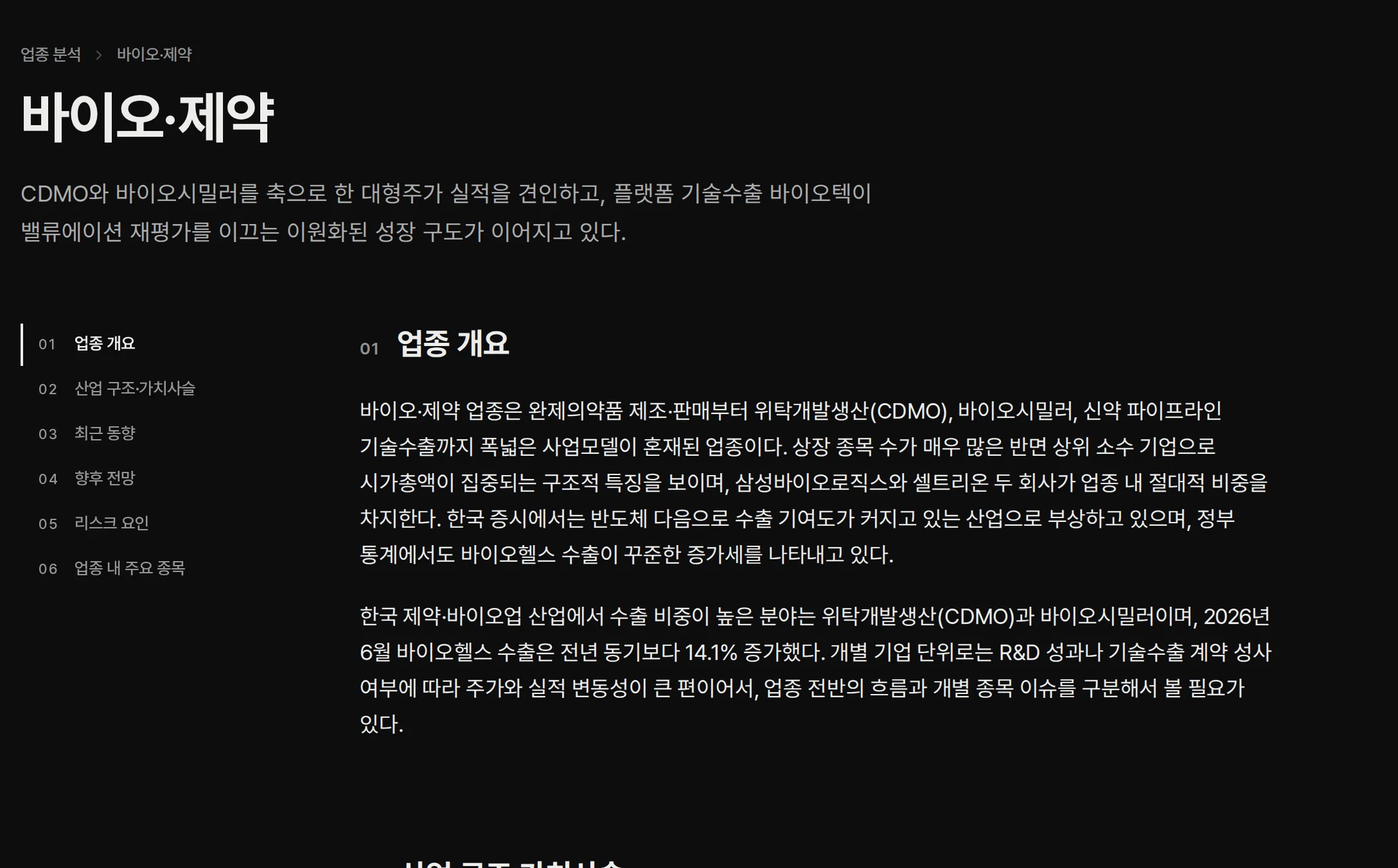
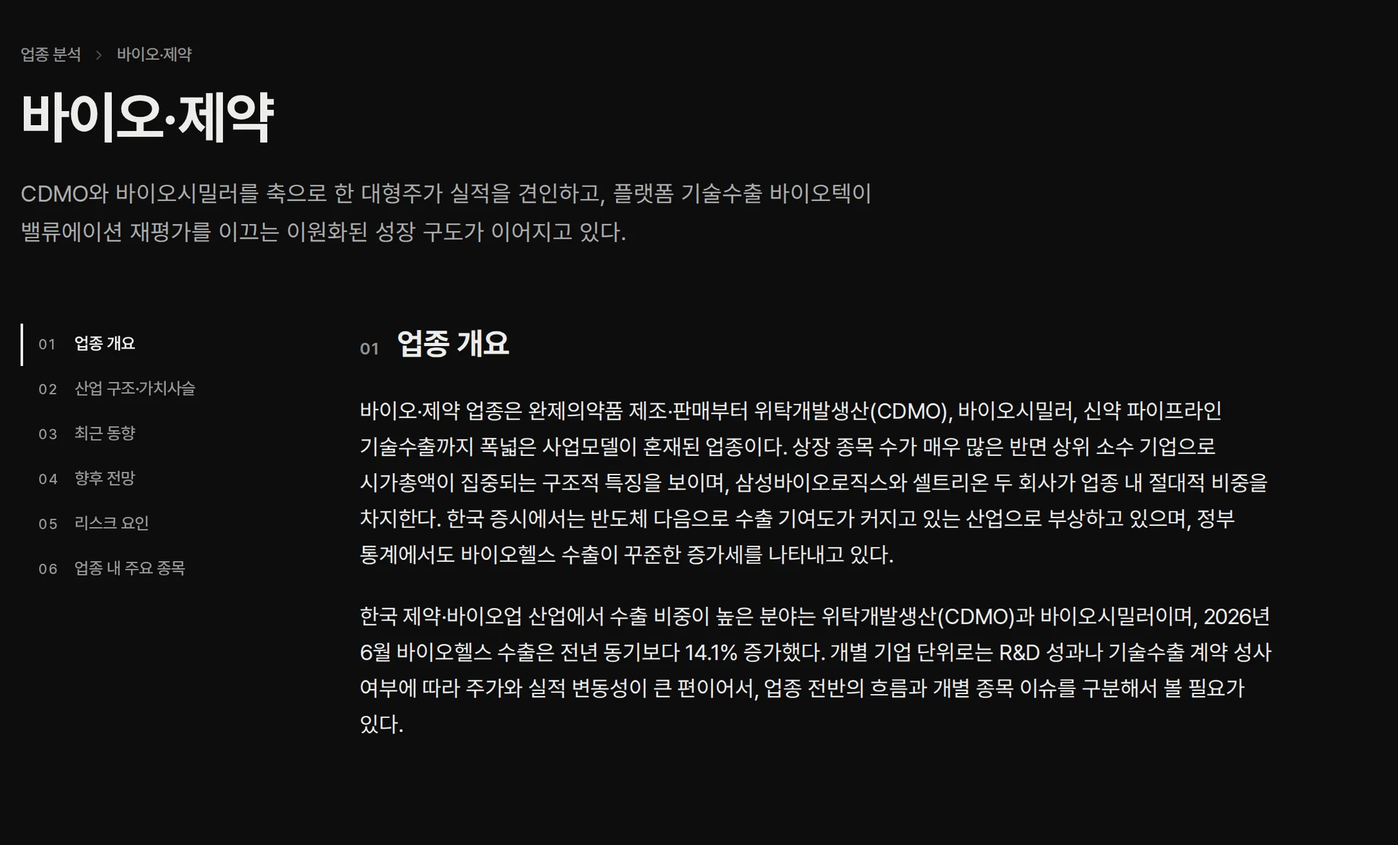
랜딩 업종 절 — 데스크톱 그림 끝에 다음 절 제목이 흐리게 비치지 않게
사장: "이미지 맨 아래에 데스크탑에서 보면 글씨가 살짝 보이는데 저거 거슬리네"
— 데스크톱 그림의 아래 끝에 다음 절(02 산업 구조·가치사슬) 제목 윗부분이
흐리게 비쳤다.

- landing_art.py: 자를 범위 아래를 선택자 기준으로 끊는 선택(cut)을 더해,
  업종 데스크톱 화면은 다음 절 제목 8px 위(01 업종 개요가 끝난 여백)에서 끊는다
  (그림 2112×1312 → 2112×1277). 휴대폰 화면과 리포트 그림은 그대로
- .shot.full: 데스크톱에서는 흐려지는 구간을 그림 아래 여백 64px 에만 건다 —
  글은 끝까지 또렷하다. 휴대폰은 전과 같이 글이 이어지다 풀린다
- CLAUDE.md, 카피 보고서 수정 기록 갱신

Claude-Session: https://claude.ai/code/session_01V9w7AkGYKinAos3GPMJT9m

diff --git a/preview/concepts/landing/index.html b/preview/concepts/landing/index.html
@@ -1,4 +1,4 @@
-<!doctype html><html lang="ko"><head><meta charset="utf-8"><meta name="viewport" content="width=device-width,initial-scale=1,viewport-fit=cover"><meta name="robots" content="noindex,nofollow"><meta name="theme-color" content="#141414"><title>KOSAI — 국내 상장 2,683개 종목의 기업 분석 리포트</title><meta name="description" content="국내 상장 2,683개 종목의 기업 분석 리포트와 모닝브리핑, 업종 분석을 제공합니다."><meta property="og:title" content="KOSAI — 증권사가 다루지 않는 종목까지"><meta property="og:description" content="국내 상장 2,683개 종목의 기업 분석 리포트"><link rel="stylesheet" href="../../../fonts/pretendard-subset.css"><link rel="stylesheet" href="landing.css"><script>(function(){var t='light';try{t=localStorage.getItem('kos-theme')||'light'}catch(e){}var r=document.documentElement;r.setAttribute('data-theme',t);r.classList.add('band-top');if('IntersectionObserver' in window&&!matchMedia('(prefers-reduced-motion: reduce)').matches)r.classList.add('rv-on');document.querySelector('meta[name="theme-color"]').setAttribute('content',t==='dark'?'#1c1c1e':'#141414')})();</script></head><body><div id="kosEdgeTop" aria-hidden="true"></div><div id="kosEdgeBot" aria-hidden="true"></div><nav class="nav on-band" id="nav"><div class="nav-in"><a class="brand" href="#"><img class="lt" src="../../../assets/kosai-wordmark-black.png" alt="KOSAI"><img class="dk" src="../../../assets/kosai-wordmark-white.png" alt="KOSAI"></a><div class="links"><a href="#">홈</a><a href="#report">리포트</a><a href="#sectors">업종 분석</a><a href="#">관심종목</a><a href="#brief">모닝브리핑</a></div><div class="right"><a class="login" href="#">로그인</a><button class="ib" id="themeBtn" aria-label="테마 전환"><svg viewBox="0 0 24 24" id="themeIcon"><path d="M21 12.8A9 9 0 1 1 11.2 3a7 7 0 0 0 9.8 9.8z"/></svg></button><button class="ib menu" id="menuBtn" aria-label="메뉴" aria-expanded="false" aria-controls="mmenu"><svg class="ham" viewBox="0 0 24 24"><path d="M4 7h16M4 12h16M4 17h16"/></svg><svg class="x" viewBox="0 0 24 24"><path d="M6 6l12 12M18 6L6 18"/></svg></button></div></div></nav><div class="mmenu" id="mmenu"><div class="mm-links"><a href="#">홈</a><a href="#report">리포트</a><a href="#sectors">업종 분석</a><a href="#">관심종목</a><a href="#brief">모닝브리핑</a></div><div class="sep"></div><div class="mm-auth"><a href="#">로그인</a><a href="#">회원가입</a></div><div class="mm-foot"><a href="#">회사 소개</a><a href="#">문의하기</a><a href="#">피드백</a><a href="#">이용약관</a><a href="#">개인정보 처리방침</a></div></div><main><header class="hero dz" id="hero"><div class="hero-in w"><h1>증권사가 다루지 않는<br>종목까지</h1><p class="lede"><span class="s">국내 상장 <span class="num">2,683</span>개 종목의 기업 분석 리포트를 제공합니다.</span></p><form class="search" role="search" onsubmit="return false"><svg viewBox="0 0 24 24"><circle cx="11" cy="11" r="7"/><path d="M21 21l-3.5-3.5"/></svg><input placeholder="종목명 또는 종목코드" aria-label="종목 검색" autocomplete="off"><button class="btn btn-ink" type="button">리포트 찾기</button></form><div class="alt"><a class="more" href="#">전체 리포트 보기 <svg class="i" viewBox="0 0 24 24"><path d="M5 12h14M13 6l6 6-6 6"/></svg></a></div></div><div class="orb-box" aria-hidden="true"><canvas class="orb" id="orb"></canvas></div><script type="application/json" id="orbData">{"n":2682,"r":[22,56,85,116,120,137,169,174,247,261,272,273,278,288,293,297,369,399,417,537,579,586,629,636,694,721,722,727,732,735,740,794,796,811,821,875,890,907,912,923,969,1052,1055,1072,1108,1174,1192,1220,1275,1312,1317,1346,1350,1411,1419,1442,1527,1578,1585,1628,1672,1718,1724,1736,1745,1828,1866,1874,1899,1948,1956,1974,1977,1996,2001,2007,2102,2148,2173,2187,2195,2295,2319,2328,2331,2369,2404,2409,2421,2441,2534,2563,2565,2570,2577,2601,2616,2622]}</script></header><section class="sec w solo stat" id="gap"><h2 class="stat-h rv"><span class="h2">증권사 리포트가 없는<br class="m"> 국내 상장사</span> <span class="cnt stat-n">58.8%</span></h2><p class="sub rv"><span class="s">지난해 증권사 기업분석 보고서가 발간되지 않은 기업은 1,573개사입니다.</span> <span class="s">KOSAI는 해당 기업에 대해서도 분석 리포트를 제공합니다.</span></p><p class="src rv">자료: 한국IR협의회 기업리서치센터, 2025년 상장사 2,674개사 집계</p></section><section class="sec w" id="report"><div class="split"><div class="tx"><p class="eyebrow rv">리포트</p><h2 class="h2 rv">한 편에 담은<br>기업 분석</h2><p class="sub rv"><span class="s">사업 구조와 실적, 업황, 전망, 리스크를 차례로 정리합니다.</span> <span class="s">강세 요인과 약세 요인을 함께 제시해 어느 한쪽으로 치우치지 않습니다.</span></p></div><figure class="shot" role="img" aria-label="KOSAI 기업 분석 리포트의 실제 화면. 목차와 리포트 개요, 사업 구조, 실적 추이가 차례로 보입니다."><div class="scr desk"><img class="lt" src="img/report-desk-light.webp" width="1840" height="1413" alt="" loading="lazy" decoding="async"><img class="dk" src="img/report-desk-dark.webp" width="1840" height="1413" alt="" loading="lazy" decoding="async"></div><div class="scr m1"><img class="lt" src="img/report-m1-light.webp" width="900" height="1477" alt="" loading="lazy" decoding="async"><img class="dk" src="img/report-m1-dark.webp" width="900" height="1477" alt="" loading="lazy" decoding="async"></div><div class="scr m2"><img class="lt" src="img/report-m2-light.webp" width="900" height="1477" alt="" loading="lazy" decoding="async"><img class="dk" src="img/report-m2-dark.webp" width="900" height="1477" alt="" loading="lazy" decoding="async"></div></figure></div></section><section class="sec w solo"><h2 class="h2 rv">매수도 매도도<br>권하지 않습니다</h2><p class="sub rv"><span class="s">KOSAI는 자체 투자의견과 목표주가를 제시하지 않습니다.</span> <span class="s">투자 판단에 필요한 사실과 근거를 정리하는 데 집중합니다.</span></p></section><section class="sec w trust"><h2 class="h2 rv">리포트의<br>세 가지 원칙</h2><ul class="proof"><li class="rv"><h3>공시 원본 수치</h3><p><span class="s">실적 표와 차트의 수치는 금융감독원 전자공시(DART) 원본에서 가져오며, AI가 생성하지 않습니다.</span></p></li><li class="rv"><h3>출처 공개</h3><p><span class="s">분석의 근거가 된 자료를 리포트마다 출처로 공개합니다.</span> <span class="s">한 편당 평균 17.5건입니다.</span></p></li><li class="rv"><h3>발행 전 검수</h3><p><span class="s">투자 권유로 읽힐 수 있는 표현은 발행 전에 자동으로 검수해 수정합니다.</span></p></li></ul><a class="more rv" href="#">작성 방식 자세히 보기 <svg class="i" viewBox="0 0 24 24"><path d="M5 12h14M13 6l6 6-6 6"/></svg></a></section><section class="sec w" id="fresh"><div class="split rev"><div class="tx"><h2 class="h2 rv">공시와 함께<br>갱신되는 리포트</h2><p class="sub rv"><span class="s">분기보고서와 반기보고서, 사업보고서가 공시되면 리포트를 새로 작성합니다.</span> <span class="s">주가와 밸류에이션 지표는 거래일마다 반영합니다.</span></p></div><figure class="cyc" id="cyc" role="img" aria-label="2026년 한 해를 원으로 나타낸 그림입니다. 안쪽 선은 12월 결산 법인의 정기보고서 제출 기간입니다."><div class="cyc-box" id="cycBox"></div><figcaption class="cyc-lg"><span><i class="g-ar"></i>정기보고서 제출 기간<em>12월 결산 법인 기준</em></span></figcaption><script type="application/json" id="cycData">{"years":{"2026":{"y":2026,"n":365,"win":[["사업보고서",0,89,3,31],["1분기보고서",90,134,5,15],["반기보고서",181,225,8,14],["3분기보고서",273,319,11,16]]},"2027":{"y":2027,"n":365,"win":[["사업보고서",0,89,3,31],["1분기보고서",90,136,5,17],["반기보고서",181,228,8,17],["3분기보고서",273,318,11,15]]},"2028":{"y":2028,"n":366,"win":[["사업보고서",0,89,3,30],["1분기보고서",91,135,5,15],["반기보고서",182,226,8,14],["3분기보고서",274,318,11,14]]},"2029":{"y":2029,"n":365,"win":[["사업보고서",0,91,4,2],["1분기보고서",90,134,5,15],["반기보고서",181,225,8,14],["3분기보고서",273,317,11,14]]},"2030":{"y":2030,"n":365,"win":[["사업보고서",0,90,4,1],["1분기보고서",90,134,5,15],["반기보고서",181,225,8,14],["3분기보고서",273,317,11,14]]}},"t":{"label":"{y}년 한 해를 원으로 나타낸 그림입니다. 안쪽 선은 12월 결산 법인의 정기보고서 제출 기간입니다.","next":"{w} 제출 기한은 {m}월 {d}일입니다.","mon":"{m}월","due":"{m}월 {d}일까지","today":"오늘"}}</script></figure></div></section><section class="sec w stack" id="sectors"><p class="eyebrow rv">업종 분석</p><h2 class="h2 rv">30개 업종의<br>분석 리포트</h2><p class="sub rv"><span class="s">업종마다 산업 구조와 최근 동향, 향후 전망, 리스크 요인을 분석합니다.</span> <span class="s">개별 기업을 산업 전체의 맥락에서 살펴볼 수 있습니다.</span></p><a class="more rv" href="#">전체 업종 보기 <svg class="i" viewBox="0 0 24 24"><path d="M5 12h14M13 6l6 6-6 6"/></svg></a><figure class="shot full" role="img" aria-label="KOSAI 업종 분석의 실제 화면. 업종 요약과 목차, 업종 개요, 리스크 요인이 차례로 보입니다."><div class="scr desk"><img class="lt" src="img/sector-desk-light.webp" width="2112" height="1312" alt="" loading="lazy" decoding="async"><img class="dk" src="img/sector-desk-dark.webp" width="2112" height="1312" alt="" loading="lazy" decoding="async"></div><div class="scr m1"><img class="lt" src="img/sector-m1-light.webp" width="900" height="1477" alt="" loading="lazy" decoding="async"><img class="dk" src="img/sector-m1-dark.webp" width="900" height="1477" alt="" loading="lazy" decoding="async"></div><div class="scr m2"><img class="lt" src="img/sector-m2-light.webp" width="900" height="1477" alt="" loading="lazy" decoding="async"><img class="dk" src="img/sector-m2-dark.webp" width="900" height="1477" alt="" loading="lazy" decoding="async"></div></figure></section><section class="band dz" id="brief"><div class="w split"><div class="tx"><p class="eyebrow rv">모닝브리핑</p><h2 class="h2 rv">개장 전에 읽는<br>시장 브리핑</h2><p class="sub rv"><span class="s">전일 국내 증시와 간밤의 해외 시장, 주요 일정을 정리합니다.</span> <span class="s">발행 시각은 거래일 오전 7시 30분 전후입니다.</span></p><a class="more rv" href="#">제31호 읽기 <svg class="i" viewBox="0 0 24 24"><path d="M5 12h14M13 6l6 6-6 6"/></svg></a></div><figure class="slot" aria-label="사진 자리 — 개장 전 아침, 책상 위 휴대폰"><span class="st"><svg viewBox="0 0 24 24"><rect x="3.5" y="5" width="17" height="14" rx="2"/><path d="M3.5 16l5-5 4 4 3-3 5 5"/></svg>사진<span>1:1</span></span><figcaption>개장 전 아침, 책상 위 휴대폰</figcaption></figure></div></section><section class="end w"><h2 class="h2 rv">궁금한 종목의<br>리포트를 확인하세요</h2><div class="rv"><form class="search" role="search" onsubmit="return false"><svg viewBox="0 0 24 24"><circle cx="11" cy="11" r="7"/><path d="M21 21l-3.5-3.5"/></svg><input placeholder="종목명 또는 종목코드" aria-label="종목 검색" autocomplete="off"><button class="btn btn-ink" type="button">리포트 찾기</button></form></div></section></main><footer class="foot"><div class="w"><a class="brand" href="#"><img class="lt" src="../../../assets/kosai-wordmark-black.png" alt="KOSAI"><img class="dk" src="../../../assets/kosai-wordmark-white.png" alt="KOSAI"></a><div class="fgrid"><div class="fcol"><h4>서비스</h4><a href="#">홈</a><a href="#">리포트</a><a href="#">업종 분석</a><a href="#">관심종목</a><a href="#">모닝브리핑</a></div><div class="fcol"><h4>회사</h4><a href="#">회사 소개</a><a href="#">문의하기</a><a href="#">피드백</a></div><div class="fcol"><h4>정책</h4><a href="#">이용약관</a><a class="pp" href="#">개인정보 처리방침</a></div></div><div class="biz"><span>상호 코사이</span><span>대표 임범준</span><span>사업자등록번호 380-25-02019</span><span>주소 서울시 양천구 목동동로12길 50, 동성빌딩 4층 459호</span><span>이메일 hello@kosai.kr</span></div><div class="copy">© 2026 KOSAI</div></div></footer><script>(function(){var r=document.documentElement;if(!r.classList.contains('rv-on'))return;function bz(x){var lo=0,hi=1,t=x,u;for(var i=0;i<24;i++){t=(lo+hi)/2;u=1-t;if(3*u*u*t*.2+3*u*t*t*.2+t*t*t<x)lo=t;else hi=t}u=1-t;return 3*u*u*t*.7+3*u*t*t+t*t*t}function cnt(el,d){var s=el.textContent,m=s.match(/^(\d+)(?:\.(\d+))?(\D*)$/),tn=el.firstChild;if(!m||!tn||(document.fonts&&document.fonts.status!=='loaded'))return;var hd=el.parentNode,ip=m[1],fp=m[2]||'',to=parseFloat(ip+(fp?'.'+fp:'')),dp=fp.length,ch=s.split(''),h='',i,b,x=[],fs=parseFloat(getComputedStyle(el).fontSize),rg=document.createRange();for(i=0;i<ch.length;i++){rg.setStart(tn,i);rg.setEnd(tn,i+1);b=rg.getBoundingClientRect();x.push([b.left,b.width])}hd.setAttribute('aria-label',hd.textContent);el.setAttribute('aria-hidden','true');el.style.whiteSpace='nowrap';for(i=0;i<ch.length;i++)h+='<span>'+ch[i]+'</span>';el.innerHTML=h;var sp=el.children;for(i=0;i<sp.length;i++)sp[i].style.cssText='display:inline-block;text-align:center;width:'+((i<sp.length-1?x[i+1][0]-x[i][0]:x[i][1])/fs).toFixed(4)+'em';function show(v){var a=v.toFixed(dp).split('.'),n=ip.length,k;for(i=0;i<n;i++){k=a[0].length-n+i;sp[i].textContent=k>=0?a[0].charAt(k):''}for(i=0;i<dp;i++)sp[n+1+i].textContent=(a[1]||'').charAt(i)}show(0);var t0=null;function f(ts){if(t0===null)t0=ts+d*1000;var p=Math.max(0,Math.min(1,(ts-t0)/1000));if(p<1){show(to*bz(p));requestAnimationFrame(f)}else for(i=0;i<sp.length;i++)sp[i].textContent=ch[i]}requestAnimationFrame(f)}try{var io=new IntersectionObserver(function(es){var j=0;for(var k=0;k<es.length;k++){var e=es[k],t=e.target;if(e.isIntersecting){var d=Math.min(j++,5)*.08;t.style.setProperty('--d',d+'s');t.classList.add('in');io.unobserve(t);var c=t.querySelector('.cnt');if(c)cnt(c,d)}else if(e.boundingClientRect.top<0){t.classList.add('in');io.unobserve(t)}}},{rootMargin:'0px 0px -10% 0px'});var rv=document.querySelectorAll('.rv');for(var k=0;k<rv.length;k++)io.observe(rv[k])}catch(x){r.classList.remove('rv-on')}})();</script><script>(function(){
+<!doctype html><html lang="ko"><head><meta charset="utf-8"><meta name="viewport" content="width=device-width,initial-scale=1,viewport-fit=cover"><meta name="robots" content="noindex,nofollow"><meta name="theme-color" content="#141414"><title>KOSAI — 국내 상장 2,682개 종목의 기업 분석 리포트</title><meta name="description" content="국내 상장 2,682개 종목의 기업 분석 리포트와 모닝브리핑, 업종 분석을 제공합니다."><meta property="og:title" content="KOSAI — 증권사가 다루지 않는 종목까지"><meta property="og:description" content="국내 상장 2,682개 종목의 기업 분석 리포트"><link rel="stylesheet" href="../../../fonts/pretendard-subset.css"><link rel="stylesheet" href="landing.css"><script>(function(){var t='light';try{t=localStorage.getItem('kos-theme')||'light'}catch(e){}var r=document.documentElement;r.setAttribute('data-theme',t);r.classList.add('band-top');if('IntersectionObserver' in window&&!matchMedia('(prefers-reduced-motion: reduce)').matches)r.classList.add('rv-on');document.querySelector('meta[name="theme-color"]').setAttribute('content',t==='dark'?'#1c1c1e':'#141414')})();</script></head><body><div id="kosEdgeTop" aria-hidden="true"></div><div id="kosEdgeBot" aria-hidden="true"></div><nav class="nav on-band" id="nav"><div class="nav-in"><a class="brand" href="#"><img class="lt" src="../../../assets/kosai-wordmark-black.png" alt="KOSAI"><img class="dk" src="../../../assets/kosai-wordmark-white.png" alt="KOSAI"></a><div class="links"><a href="#">홈</a><a href="#report">리포트</a><a href="#sectors">업종 분석</a><a href="#">관심종목</a><a href="#brief">모닝브리핑</a></div><div class="right"><a class="login" href="#">로그인</a><button class="ib" id="themeBtn" aria-label="테마 전환"><svg viewBox="0 0 24 24" id="themeIcon"><path d="M21 12.8A9 9 0 1 1 11.2 3a7 7 0 0 0 9.8 9.8z"/></svg></button><button class="ib menu" id="menuBtn" aria-label="메뉴" aria-expanded="false" aria-controls="mmenu"><svg class="ham" viewBox="0 0 24 24"><path d="M4 7h16M4 12h16M4 17h16"/></svg><svg class="x" viewBox="0 0 24 24"><path d="M6 6l12 12M18 6L6 18"/></svg></button></div></div></nav><div class="mmenu" id="mmenu"><div class="mm-links"><a href="#">홈</a><a href="#report">리포트</a><a href="#sectors">업종 분석</a><a href="#">관심종목</a><a href="#brief">모닝브리핑</a></div><div class="sep"></div><div class="mm-auth"><a href="#">로그인</a><a href="#">회원가입</a></div><div class="mm-foot"><a href="#">회사 소개</a><a href="#">문의하기</a><a href="#">피드백</a><a href="#">이용약관</a><a href="#">개인정보 처리방침</a></div></div><main><header class="hero dz" id="hero"><div class="hero-in w"><h1>증권사가 다루지 않는<br>종목까지</h1><p class="lede"><span class="s">국내 상장 <span class="num">2,682</span>개 종목의 기업 분석 리포트를 제공합니다.</span></p><form class="search" role="search" onsubmit="return false"><svg viewBox="0 0 24 24"><circle cx="11" cy="11" r="7"/><path d="M21 21l-3.5-3.5"/></svg><input placeholder="종목명 또는 종목코드" aria-label="종목 검색" autocomplete="off"><button class="btn btn-ink" type="button">리포트 찾기</button></form><div class="alt"><a class="more" href="#">전체 리포트 보기 <svg class="i" viewBox="0 0 24 24"><path d="M5 12h14M13 6l6 6-6 6"/></svg></a></div></div><div class="orb-box" aria-hidden="true"><canvas class="orb" id="orb"></canvas></div><script type="application/json" id="orbData">{"n":2682,"r":[22,56,85,116,120,137,169,174,247,261,272,273,278,288,293,297,369,399,417,537,579,586,629,636,694,721,722,727,732,735,740,794,796,811,821,875,890,907,912,923,969,1052,1055,1072,1108,1174,1192,1220,1275,1312,1317,1346,1350,1411,1419,1442,1527,1578,1585,1628,1672,1718,1724,1736,1745,1828,1866,1874,1899,1948,1956,1974,1977,1996,2001,2007,2102,2148,2173,2187,2195,2295,2319,2328,2331,2369,2404,2409,2421,2441,2534,2563,2565,2570,2577,2601,2616,2622]}</script></header><section class="sec w solo stat" id="gap"><h2 class="stat-h rv"><span class="h2">증권사 리포트가 없는<br class="m"> 국내 상장사</span> <span class="cnt stat-n">58.8%</span></h2><p class="sub rv"><span class="s">지난해 증권사 기업분석 보고서가 발간되지 않은 기업은 1,573개사입니다.</span> <span class="s">KOSAI는 해당 기업에 대해서도 분석 리포트를 제공합니다.</span></p><p class="src rv">자료: 한국IR협의회 기업리서치센터, 2025년 상장사 2,674개사 집계</p></section><section class="sec w" id="report"><div class="split"><div class="tx"><p class="eyebrow rv">리포트</p><h2 class="h2 rv">한 편에 담은<br>기업 분석</h2><p class="sub rv"><span class="s">사업 구조와 실적, 업황, 전망, 리스크를 차례로 정리합니다.</span> <span class="s">강세 요인과 약세 요인을 함께 제시해 어느 한쪽으로 치우치지 않습니다.</span></p></div><figure class="shot" role="img" aria-label="KOSAI 기업 분석 리포트의 실제 화면. 목차와 리포트 개요, 사업 구조, 실적 추이가 차례로 보입니다."><div class="scr desk"><img class="lt" src="img/report-desk-light.webp" width="1840" height="1413" alt="" loading="lazy" decoding="async"><img class="dk" src="img/report-desk-dark.webp" width="1840" height="1413" alt="" loading="lazy" decoding="async"></div><div class="scr m1"><img class="lt" src="img/report-m1-light.webp" width="900" height="1477" alt="" loading="lazy" decoding="async"><img class="dk" src="img/report-m1-dark.webp" width="900" height="1477" alt="" loading="lazy" decoding="async"></div><div class="scr m2"><img class="lt" src="img/report-m2-light.webp" width="900" height="1477" alt="" loading="lazy" decoding="async"><img class="dk" src="img/report-m2-dark.webp" width="900" height="1477" alt="" loading="lazy" decoding="async"></div></figure></div></section><section class="sec w solo"><h2 class="h2 rv">매수도 매도도<br>권하지 않습니다</h2><p class="sub rv"><span class="s">KOSAI는 자체 투자의견과 목표주가를 제시하지 않습니다.</span> <span class="s">투자 판단에 필요한 사실과 근거를 정리하는 데 집중합니다.</span></p></section><section class="sec w trust"><h2 class="h2 rv">리포트의<br>세 가지 원칙</h2><ul class="proof"><li class="rv"><h3>공시 원본 수치</h3><p><span class="s">실적 표와 차트의 수치는 금융감독원 전자공시(DART) 원본에서 가져오며, AI가 생성하지 않습니다.</span></p></li><li class="rv"><h3>출처 공개</h3><p><span class="s">분석의 근거가 된 자료를 리포트마다 출처로 공개합니다.</span> <span class="s">한 편당 평균 17.5건입니다.</span></p></li><li class="rv"><h3>발행 전 검수</h3><p><span class="s">투자 권유로 읽힐 수 있는 표현은 발행 전에 자동으로 검수해 수정합니다.</span></p></li></ul><a class="more rv" href="#">작성 방식 자세히 보기 <svg class="i" viewBox="0 0 24 24"><path d="M5 12h14M13 6l6 6-6 6"/></svg></a></section><section class="sec w" id="fresh"><div class="split rev"><div class="tx"><h2 class="h2 rv">공시와 함께<br>갱신되는 리포트</h2><p class="sub rv"><span class="s">분기보고서와 반기보고서, 사업보고서가 공시되면 리포트를 새로 작성합니다.</span> <span class="s">주가와 밸류에이션 지표는 거래일마다 반영합니다.</span></p></div><figure class="cyc" id="cyc" role="img" aria-label="2026년 한 해를 원으로 나타낸 그림입니다. 안쪽 선은 12월 결산 법인의 정기보고서 제출 기간입니다."><div class="cyc-box" id="cycBox"></div><figcaption class="cyc-lg"><span><i class="g-ar"></i>정기보고서 제출 기간<em>12월 결산 법인 기준</em></span></figcaption><script type="application/json" id="cycData">{"years":{"2026":{"y":2026,"n":365,"win":[["사업보고서",0,89,3,31],["1분기보고서",90,134,5,15],["반기보고서",181,225,8,14],["3분기보고서",273,319,11,16]]},"2027":{"y":2027,"n":365,"win":[["사업보고서",0,89,3,31],["1분기보고서",90,136,5,17],["반기보고서",181,228,8,17],["3분기보고서",273,318,11,15]]},"2028":{"y":2028,"n":366,"win":[["사업보고서",0,89,3,30],["1분기보고서",91,135,5,15],["반기보고서",182,226,8,14],["3분기보고서",274,318,11,14]]},"2029":{"y":2029,"n":365,"win":[["사업보고서",0,91,4,2],["1분기보고서",90,134,5,15],["반기보고서",181,225,8,14],["3분기보고서",273,317,11,14]]},"2030":{"y":2030,"n":365,"win":[["사업보고서",0,90,4,1],["1분기보고서",90,134,5,15],["반기보고서",181,225,8,14],["3분기보고서",273,317,11,14]]}},"t":{"label":"{y}년 한 해를 원으로 나타낸 그림입니다. 안쪽 선은 12월 결산 법인의 정기보고서 제출 기간입니다.","next":"{w} 제출 기한은 {m}월 {d}일입니다.","mon":"{m}월","due":"{m}월 {d}일까지","today":"오늘"}}</script></figure></div></section><section class="sec w stack" id="sectors"><p class="eyebrow rv">업종 분석</p><h2 class="h2 rv">30개 업종의<br>분석 리포트</h2><p class="sub rv"><span class="s">업종마다 산업 구조와 최근 동향, 향후 전망, 리스크 요인을 분석합니다.</span> <span class="s">개별 기업을 산업 전체의 맥락에서 살펴볼 수 있습니다.</span></p><a class="more rv" href="#">전체 업종 보기 <svg class="i" viewBox="0 0 24 24"><path d="M5 12h14M13 6l6 6-6 6"/></svg></a><figure class="shot full" role="img" aria-label="KOSAI 업종 분석의 실제 화면. 업종 요약과 목차, 업종 개요, 리스크 요인이 차례로 보입니다."><div class="scr desk"><img class="lt" src="img/sector-desk-light.webp" width="2112" height="1277" alt="" loading="lazy" decoding="async"><img class="dk" src="img/sector-desk-dark.webp" width="2112" height="1277" alt="" loading="lazy" decoding="async"></div><div class="scr m1"><img class="lt" src="img/sector-m1-light.webp" width="900" height="1477" alt="" loading="lazy" decoding="async"><img class="dk" src="img/sector-m1-dark.webp" width="900" height="1477" alt="" loading="lazy" decoding="async"></div><div class="scr m2"><img class="lt" src="img/sector-m2-light.webp" width="900" height="1477" alt="" loading="lazy" decoding="async"><img class="dk" src="img/sector-m2-dark.webp" width="900" height="1477" alt="" loading="lazy" decoding="async"></div></figure></section><section class="band dz" id="brief"><div class="w split"><div class="tx"><p class="eyebrow rv">모닝브리핑</p><h2 class="h2 rv">개장 전에 읽는<br>시장 브리핑</h2><p class="sub rv"><span class="s">전일 국내 증시와 간밤의 해외 시장, 주요 일정을 정리합니다.</span> <span class="s">발행 시각은 거래일 오전 7시 30분 전후입니다.</span></p><a class="more rv" href="#">제31호 읽기 <svg class="i" viewBox="0 0 24 24"><path d="M5 12h14M13 6l6 6-6 6"/></svg></a></div><figure class="slot" aria-label="사진 자리 — 개장 전 아침, 책상 위 휴대폰"><span class="st"><svg viewBox="0 0 24 24"><rect x="3.5" y="5" width="17" height="14" rx="2"/><path d="M3.5 16l5-5 4 4 3-3 5 5"/></svg>사진<span>1:1</span></span><figcaption>개장 전 아침, 책상 위 휴대폰</figcaption></figure></div></section><section class="end w"><h2 class="h2 rv">궁금한 종목의<br>리포트를 확인하세요</h2><div class="rv"><form class="search" role="search" onsubmit="return false"><svg viewBox="0 0 24 24"><circle cx="11" cy="11" r="7"/><path d="M21 21l-3.5-3.5"/></svg><input placeholder="종목명 또는 종목코드" aria-label="종목 검색" autocomplete="off"><button class="btn btn-ink" type="button">리포트 찾기</button></form></div></section></main><footer class="foot"><div class="w"><a class="brand" href="#"><img class="lt" src="../../../assets/kosai-wordmark-black.png" alt="KOSAI"><img class="dk" src="../../../assets/kosai-wordmark-white.png" alt="KOSAI"></a><div class="fgrid"><div class="fcol"><h4>서비스</h4><a href="#">홈</a><a href="#">리포트</a><a href="#">업종 분석</a><a href="#">관심종목</a><a href="#">모닝브리핑</a></div><div class="fcol"><h4>회사</h4><a href="#">회사 소개</a><a href="#">문의하기</a><a href="#">피드백</a></div><div class="fcol"><h4>정책</h4><a href="#">이용약관</a><a class="pp" href="#">개인정보 처리방침</a></div></div><div class="biz"><span>상호 코사이</span><span>대표 임범준</span><span>사업자등록번호 380-25-02019</span><span>주소 서울시 양천구 목동동로12길 50, 동성빌딩 4층 459호</span><span>이메일 hello@kosai.kr</span></div><div class="copy">© 2026 KOSAI</div></div></footer><script>(function(){var r=document.documentElement;if(!r.classList.contains('rv-on'))return;function bz(x){var lo=0,hi=1,t=x,u;for(var i=0;i<24;i++){t=(lo+hi)/2;u=1-t;if(3*u*u*t*.2+3*u*t*t*.2+t*t*t<x)lo=t;else hi=t}u=1-t;return 3*u*u*t*.7+3*u*t*t+t*t*t}function cnt(el,d){var s=el.textContent,m=s.match(/^(\d+)(?:\.(\d+))?(\D*)$/),tn=el.firstChild;if(!m||!tn||(document.fonts&&document.fonts.status!=='loaded'))return;var hd=el.parentNode,ip=m[1],fp=m[2]||'',to=parseFloat(ip+(fp?'.'+fp:'')),dp=fp.length,ch=s.split(''),h='',i,b,x=[],fs=parseFloat(getComputedStyle(el).fontSize),rg=document.createRange();for(i=0;i<ch.length;i++){rg.setStart(tn,i);rg.setEnd(tn,i+1);b=rg.getBoundingClientRect();x.push([b.left,b.width])}hd.setAttribute('aria-label',hd.textContent);el.setAttribute('aria-hidden','true');el.style.whiteSpace='nowrap';for(i=0;i<ch.length;i++)h+='<span>'+ch[i]+'</span>';el.innerHTML=h;var sp=el.children;for(i=0;i<sp.length;i++)sp[i].style.cssText='display:inline-block;text-align:center;width:'+((i<sp.length-1?x[i+1][0]-x[i][0]:x[i][1])/fs).toFixed(4)+'em';function show(v){var a=v.toFixed(dp).split('.'),n=ip.length,k;for(i=0;i<n;i++){k=a[0].length-n+i;sp[i].textContent=k>=0?a[0].charAt(k):''}for(i=0;i<dp;i++)sp[n+1+i].textContent=(a[1]||'').charAt(i)}show(0);var t0=null;function f(ts){if(t0===null)t0=ts+d*1000;var p=Math.max(0,Math.min(1,(ts-t0)/1000));if(p<1){show(to*bz(p));requestAnimationFrame(f)}else for(i=0;i<sp.length;i++)sp[i].textContent=ch[i]}requestAnimationFrame(f)}try{var io=new IntersectionObserver(function(es){var j=0;for(var k=0;k<es.length;k++){var e=es[k],t=e.target;if(e.isIntersecting){var d=Math.min(j++,5)*.08;t.style.setProperty('--d',d+'s');t.classList.add('in');io.unobserve(t);var c=t.querySelector('.cnt');if(c)cnt(c,d)}else if(e.boundingClientRect.top<0){t.classList.add('in');io.unobserve(t)}}},{rootMargin:'0px 0px -10% 0px'});var rv=document.querySelectorAll('.rv');for(var k=0;k<rv.length;k++)io.observe(rv[k])}catch(x){r.classList.remove('rv-on')}})();</script><script>(function(){
 var fg=document.getElementById('cyc'),box=document.getElementById('cycBox'),el=document.getElementById('cycData');if(!fg||!box||!el)return;
 var A=JSON.parse(el.textContent),Y=A.years,T=A.t,ks=Object.keys(Y).sort(),D=null,ti=-1,day='';
 function fill(s,o){return s.replace(/\{(\w+)\}/g,function(m,k){return k in o?o[k]:m})}

diff --git a/scripts/concepts/landing_art.py b/scripts/concepts/landing_art.py
@@ -40,17 +40,18 @@ SECTOR = "바이오·제약"
 OUT = os.path.join(ROOT, "preview", "concepts", "landing", "img")
 NAV = 60   # 머리 줄 높이 — 찍은 뒤 덜어 낸다
 # 이름: (화면 폭, 높이, 배율, 머리 아래 올 절(None 이면 맨 위 그대로), 그 절의 화면 위 거리, 자를 범위(화면 좌표 x0 · y0 · x1 · y1),
-#        저장 폭, 켜져 있어야 할 목차)
+#        저장 폭, 켜져 있어야 할 목차, 아래를 끊을 자리(선택자와 그 위쪽 여유 — 자를 범위의 y1 보다 위면 거기서 끊는다, None 이면 y1 그대로))
 SHOTS = {
-    "desk": (1280, 1000, 2, "#s01", 92, (56, NAV, 1280, 1000), 1840, "01"),
-    "m1": (390, 844, 3, "#s01", 112, (0, NAV, 390, 700), 900, "01"),
-    "m2": (390, 844, 3, "#s03", 112, (0, NAV, 390, 700), 900, "03"),
+    "desk": (1280, 1000, 2, "#s01", 92, (56, NAV, 1280, 1000), 1840, "01", None),
+    "m1": (390, 844, 3, "#s01", 112, (0, NAV, 390, 700), 900, "01", None),
+    "m2": (390, 844, 3, "#s03", 112, (0, NAV, 390, 700), 900, "03", None),
 }
-# 업종 화면 — 데스크톱은 본문 폭(1056px)에 16px 씩 여유를 둔 범위를 2112px(2배)로 담는다
+# 업종 화면 — 데스크톱은 본문 폭(1056px)에 16px 씩 여유를 둔 범위를 2112px(2배)로 담는다. 아래는 다음 절(02) 제목 8px 위, 01 업종 개요가
+# 끝난 여백에서 끊는다 — 제목 윗부분이 그림 끝에 흐리게 비쳤다(사장 2026-10-01 "글씨가 살짝 보이는데 저거 거슬리네")
 SECTOR_SHOTS = {
-    "desk": (1280, 900, 2, None, 0, (96, 84, 1184, 760), 2112, "01"),
-    "m1": (390, 844, 3, None, 0, (0, NAV, 390, 700), 900, "01"),
-    "m2": (390, 844, 3, "#s05", 112, (0, NAV, 390, 700), 900, "05"),
+    "desk": (1280, 900, 2, None, 0, (96, 84, 1184, 760), 2112, "01", ("#s02", 8)),
+    "m1": (390, 844, 3, None, 0, (0, NAV, 390, 700), 900, "01", None),
+    "m2": (390, 844, 3, "#s05", 112, (0, NAV, 390, 700), 900, "05", None),
 }
 HIDE = ".stats,.stats-note{display:none!important}"   # 업종 화면의 매일 바뀌는 수치 줄
 
@@ -63,7 +64,7 @@ class Quiet(SimpleHTTPRequestHandler):
 def take(br, url, shots, prefix, route=None, css=None):
     """shots 대로 라이트 · 다크를 찍어 prefix-{이름}-{테마}.webp 로 저장한다. 목차 표시가 맞지 않으면 멈춘다"""
     from PIL import Image
-    for name, (w, h, dpr, sel, off, box, out_w, want) in shots.items():
+    for name, (w, h, dpr, sel, off, box, out_w, want, cut) in shots.items():
         for theme in ("light", "dark"):
             phone = w < 500
             ctx = br.new_context(viewport={"width": w, "height": h}, device_scale_factor=dpr, reduced_motion="reduce",
@@ -84,8 +85,10 @@ def take(br, url, shots, prefix, route=None, css=None):
             if not any(t.startswith(want) for t in on):
                 sys.exit(f"{prefix} {name} {theme}: 목차 표시가 {want} 가 아니다 — {on}")
             im = Image.open(io.BytesIO(pg.screenshot())).convert("RGB")
-            ctx.close()
             x0, y0, x1, y1 = box
+            if cut:
+                y1 = min(y1, round(pg.evaluate("s=>document.querySelector(s).getBoundingClientRect().top", cut[0])) - cut[1])
+            ctx.close()
             im = im.crop((x0 * dpr, y0 * dpr, x1 * dpr, y1 * dpr))
             im = im.resize((out_w, round(im.height * out_w / im.width)), Image.LANCZOS)
             path = os.path.join(OUT, f"{prefix}-{name}-{theme}.webp")

diff --git a/CLAUDE.md b/CLAUDE.md
@@ -545,7 +545,9 @@ PR 하나, 스테이징·실사이트 같이. 조사 원자료는 `docs/design/r
     제목 '30개 업종의 분석 리포트', 서브 '업종마다 산업 구조와 최근 동향, 향후 전망, 리스크 요인을 분석합니다. …'(항목은 업종 화면의 실제 목차) —
     '흐름'(업종 수만 말한다) · '정리합니다'(분류로 읽힌다)로 되돌리지 말 것. 그림은 실제 업종 분석 화면(바이오·제약 — 사장 지정)을 리포트 절과 같은 옷으로:
     넓은 화면은 데스크톱 화면 한 장을 본문 폭 그대로(`.shot.full` — 제목 아래에 쌓는 절이라 오른쪽으로 잇지 않는다), 820px 이하는 휴대폰 화면 두 장
-    (01 업종 개요 · 05 리스크 요인). 머리의 수치 줄(시가총액 합계 · 시장 비중 · 종목 수 · 평균 등락률)과 기준 줄은 매일 바뀌는 값이라 가리고 찍는다
+    (01 업종 개요 · 05 리스크 요인). 데스크톱 화면은 01 업종 개요가 끝난 여백(다음 절 제목 8px 위)에서 끊고, 흐려지는 구간은 그 여백 64px 에만 건다 —
+    처음에는 다음 절 제목 윗부분이 그림 끝에 흐리게 비쳤다(사장 "글씨가 살짝 보이는데 저거 거슬리네"). 휴대폰 화면은 리포트 절처럼 글이 이어지다 풀린다.
+    머리의 수치 줄(시가총액 합계 · 시장 비중 · 종목 수 · 평균 등락률)과 기준 줄은 매일 바뀌는 값이라 가리고 찍는다
     (`landing_art.py sector` — 찍기 전에 검사 둘을 돌려 걸리면 멈춘다). 업종 분석 글(data/sectors.js)이 새로 쓰이거나 업종 화면 디자인이 바뀌면 다시 찍는다.
     바이오·제약의 요약 문장은 성장 쪽이 중심이라 휴대폰의 리스크 요인 화면이 균형을 잡는다. 업종마다 기업 수를 그린 지도(점 묶음 · 칸 넓이)는
     분류로만 읽혀 버렸다 — 되살리지 말 것.
